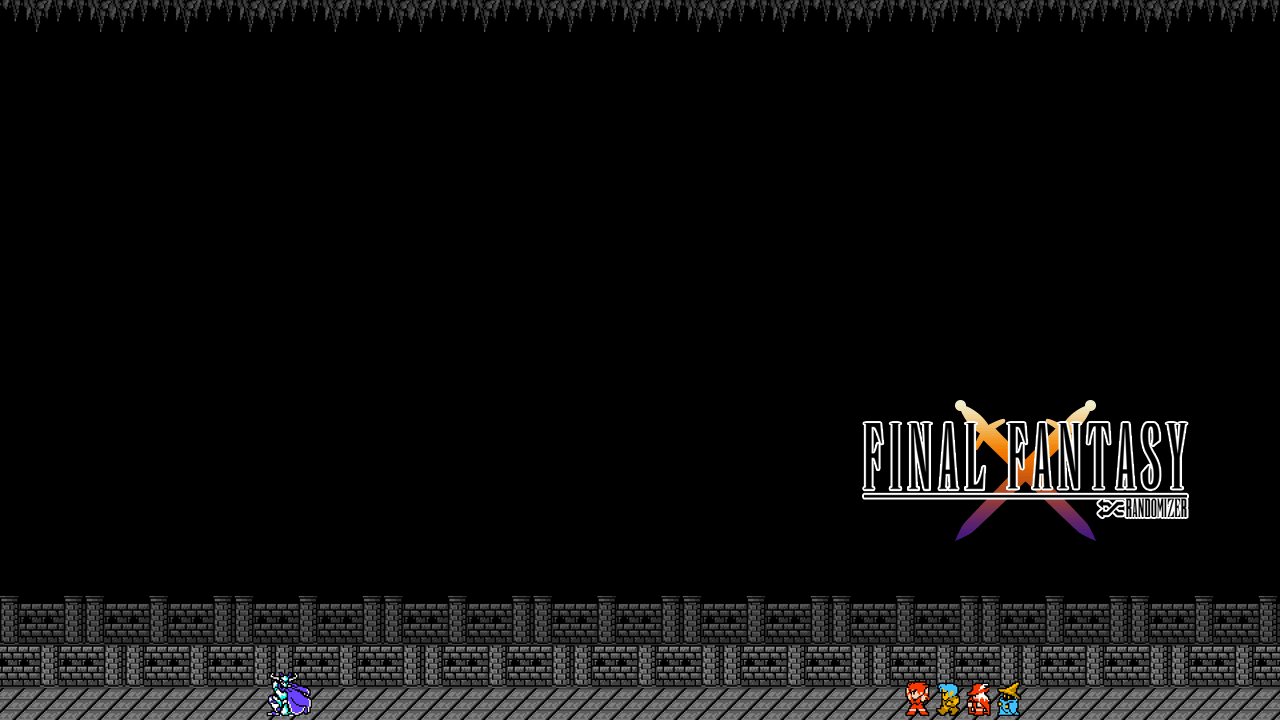
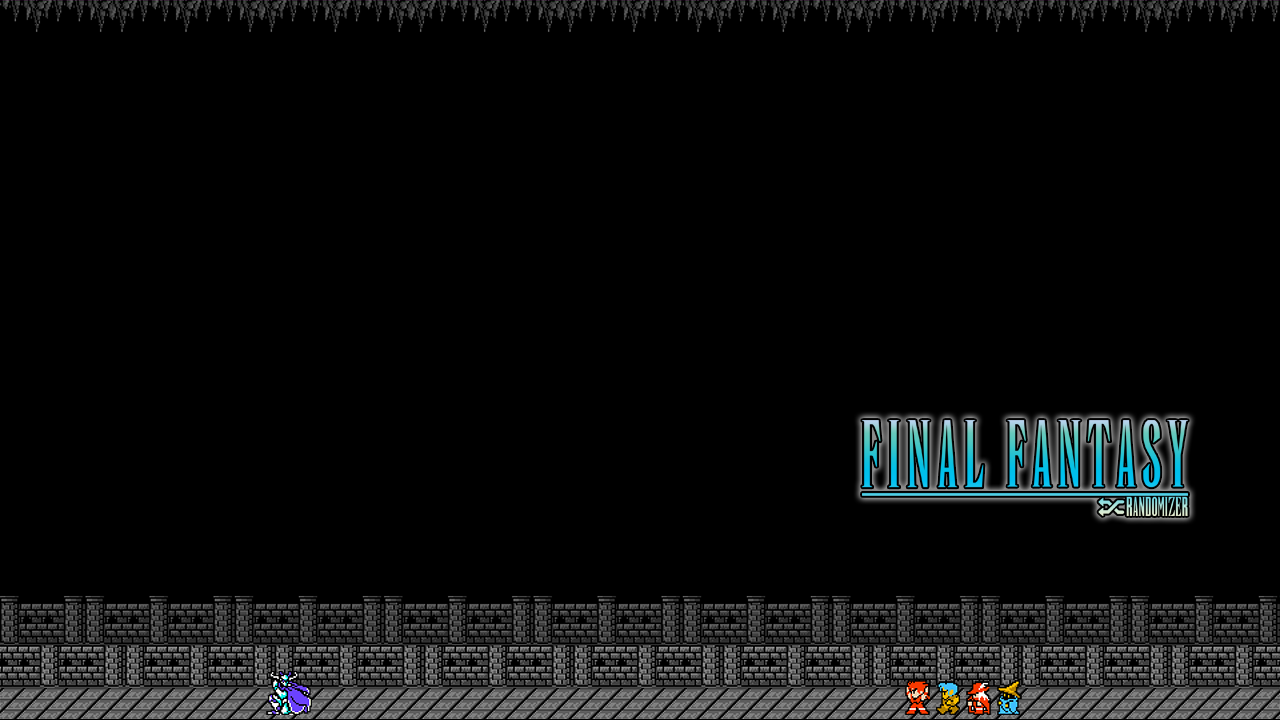
swapped background, minor edits

Changed region(s): [[0.6562, 0.55, 0.9375, 0.7639], [0.6875, 0.9472, 0.8125, 1.0], [0.1875, 0.9167, 0.25, 1.0]]

diff --git a/public/ffr/four.css b/public/ffr/four.css
@@ -22,6 +22,7 @@
 
     --backgroundColor1: #000;
     --backgroundColor2: #005;
+    --backgroundImg: url('images/4p/base-background.png');
 
     --border: 6px;
 
@@ -61,7 +62,7 @@
     height: 720px;
     color: #fff;
     position: relative;
-    background-color: #000;
+    background: url(images/4p/base-background.png) #000;
 }
 
 .layout.clip-background{
@@ -78,40 +79,28 @@
 }
 
 .ffr-default{
-    background-color: #000;}
-        .notwebp.notavif .ffr-default{background-image: url(images/4p/base-background.png);}
-        .webp.notavif .ffr-default{background-image: url(images/4p/base-background.webp);}
-        .avif .ffr-default{background-image: url(images/4p/base-background.avif);}
+    background: url(images/4p/base-background.png) #000;
+}
 
 .ffr-irongol{
+    background: url(images/4p/base-irongol.png) #000076;
     --backgroundColor2: #500;
-    background-color: #000076;}
-        .notwebp .ffr-irongol{background-image: url(images/4p/base-irongol.png);}
-        .webp .ffr-irongol{background-image: url(images/4p/base-irongol.webp);}
+}
 
 .ffr-tourney{
+    background: url(images/4p/base-tourney.png) #291901;
     --backgroundColor2: #050;
-    background-color: #291901;}
-        .notwebp .ffr-tourney{background-image: url(images/4p/base-tourney.png);}
-        .webp.notavif .ffr-tourney{background-image: url(images/4p/base-tourney.webp);}
-        .avif .ffr-tourney{background-image: url(images/4p/base-tourney.avif);}
+}
 
 .ffr-tourney .border-1{border-image-source: url('images/border.svg#svgView(viewBox(16, 0, 16, 16))');}
 
 .ffr-league{
-    background-color: #b1cbda;
-    --league-fallback: linear-gradient(#b1cbda, #1f2a44);
-    background-image: var(--league-fallback);}
-        .notwebp .ffr-league{background-image: url(images/4p/base-league.png), var(--league-fallback);}
-        .webp.notavif .ffr-league{background-image: url(images/4p/base-league.webp), var(--league-fallback);}
-        .avif .ffr-league{background-image: url(images/4p/base-league.avif), var(--league-fallback);}
+    background: url(images/4p/base-league.png), linear-gradient(#b1cbda, #1f2a44);
+}
 
 .ffr-rush{
-    background-color:#0094ff; 
-    --rush-fallback: linear-gradient(#0094ff 58%, #9c9c9c 58%);
-    background-image: var(--rush-fallback);}
-        .notwebp .ffr-rush{background-image: url(images/4p/base-rush.png), var(--rush-fallback);}
-        .webp .ffr-rush{background-image: url(images/4p/base-rush.webp), var(--rush-fallback);}
+    background: url(images/4p/base-rush.png), linear-gradient(#0094ff 58%, #9c9c9c 58%);
+}
 
 .layout.ffr-rush .player-grid {display: none;}
 .layout.ffr-rush{
@@ -121,31 +110,13 @@
     --rankY: 64px;
 }
 
-.ffr-dark{background-color: #000;}
-    .notwebp .ffr-dark{background-image: url(images/4p/base-dark.png);}
-    .webp .ffr-dark{background-image: url(images/4p/base-dark.webp);}
+.ffr-dark{
+    background: url(images/4p/base-dark.png) #000;
+}
 
-.ffr-duck1{
-    --duck1-fallback: linear-gradient(#00238c, #fff 400px, #11d1a4, #585858 550px);
-    background-image: var(--duck1-fallback);}
-        .notwebp .ffr-duck1{background-image: url(images/4p/base-duck1.png), var(--duck1-fallback);}
-        .webp .ffr-duck1{background-image: url(images/4p/base-duck1.webp), var(--duck1-fallback);}
-
-.ffr-duck2{
-    --duck2-fallback: linear-gradient(#a91d98, #fe773c, #000 50%, #00139b 50%, #6028e4);
-    background-image: var(--duck2-fallback);}
-        .notwebp .ffr-duck2{background-image: url(images/4p/base-duck2.png), var(--duck2-fallback);}
-        .webp .ffr-duck2{background-image: url(images/4p/base-duck2.webp), var(--duck2-fallback);}
-
-.ffr-duck3{
-    --duck3-fallback: linear-gradient(#fe9308, #d22c00, #7a0700, #a1a1a1);
-    background-image: var(--duck3-fallback);}
-        .notwebp .ffr-duck3{background-image: url(images/4p/base-duck3.png), var(--duck3-fallback);}
-        .webp .ffr-duck3{background-image: url(images/4p/base-duck3.webp), var(--duck3-fallback);}
-
-.ffr-duck4{background-color: #000;}
-    .notwebp .ffr-duck4{background-image: url(images/4p/base-duck4.png);}
-    .webp .ffr-duck4{background-image: url(images/4p/base-duck4.webp);}
+.ffr-duck{
+    background: url(images/4p/base-duck.png) #000;
+}
 
 .player-video{
     width: var(--vidWidth);

diff --git a/public/ffr/game_four_menu.html b/public/ffr/game_four_menu.html
@@ -43,10 +43,7 @@
 					<tr-option target=".layout, .tracker-layout" toggle-class="ffr-league" value="4">Fall League</tr-option>
 					<tr-option target=".layout, .tracker-layout" toggle-class="ffr-rush" value="5">Chaos Rush</tr-option>
 					<tr-option target=".layout, .tracker-layout" toggle-class="ffr-dark" value="6">FFR AD</tr-option>
-					<tr-option target=".layout, .tracker-layout" toggle-class="ffr-duck1" value="7">Duck Derby 1</tr-option>
-					<tr-option target=".layout, .tracker-layout" toggle-class="ffr-duck2" value="8">Duck Derby 2</tr-option>
-					<tr-option target=".layout, .tracker-layout" toggle-class="ffr-duck3" value="9">Duck Derby 3</tr-option>
-					<tr-option target=".layout, .tracker-layout" toggle-class="ffr-duck4" value="10">Duck Derby 4</tr-option>
+					<tr-option target=".layout, .tracker-layout" toggle-class="ffr-duck" value="7">Duck Derby</tr-option>
 				</tr-select-toggle>
 			</div>
         </div>
